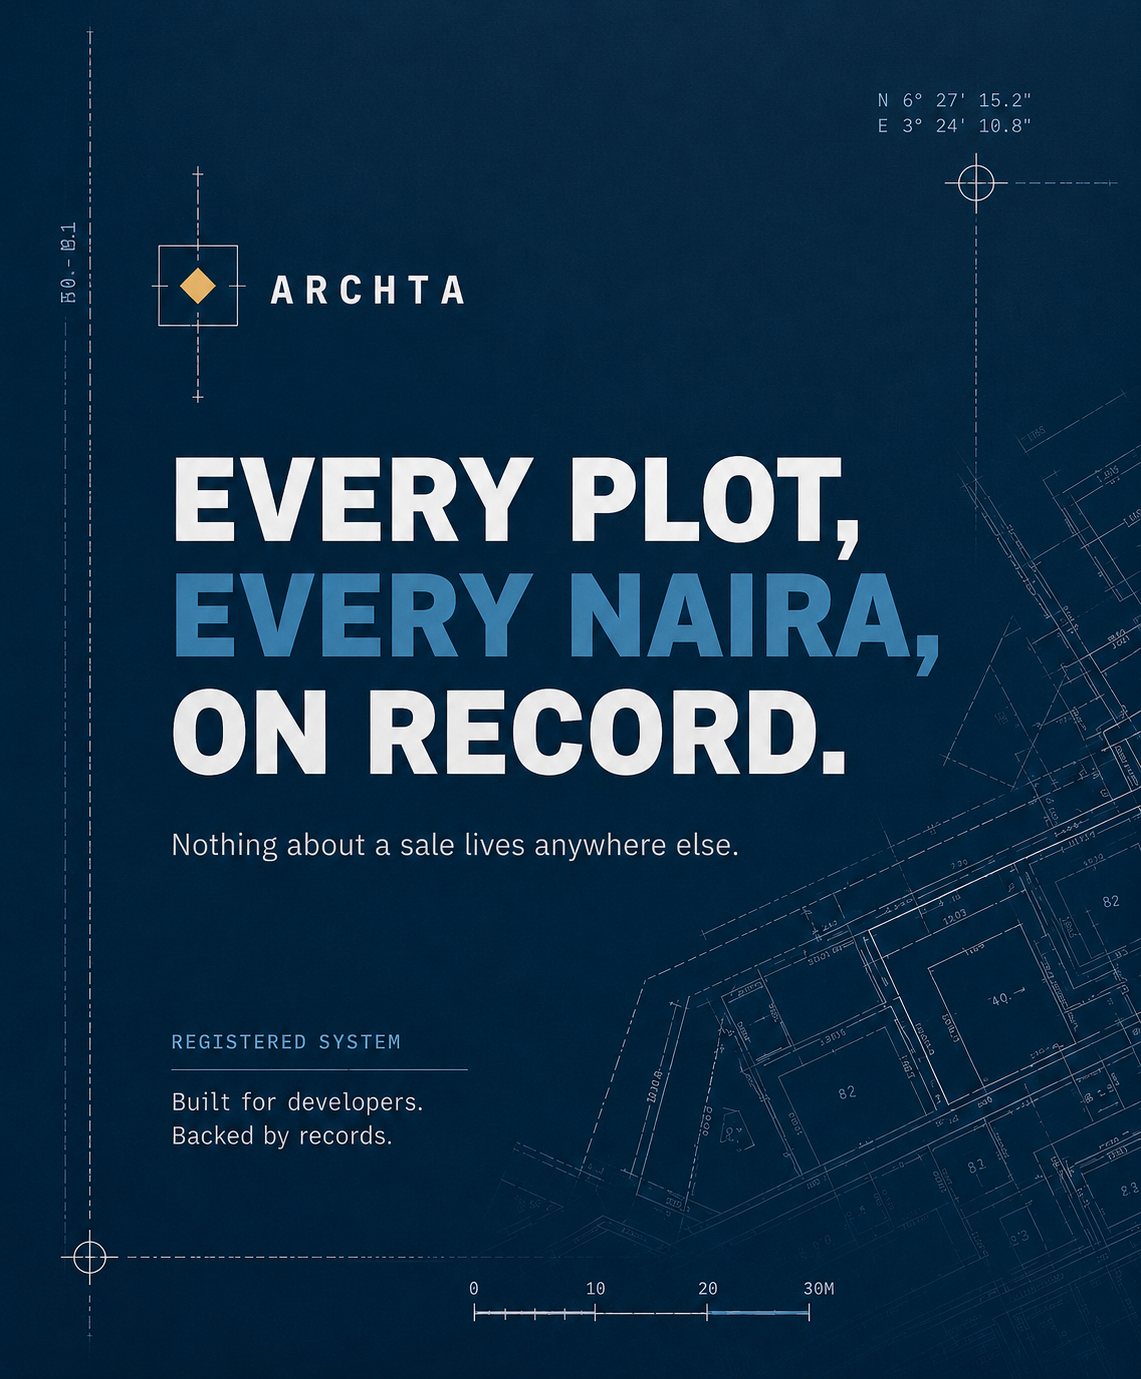
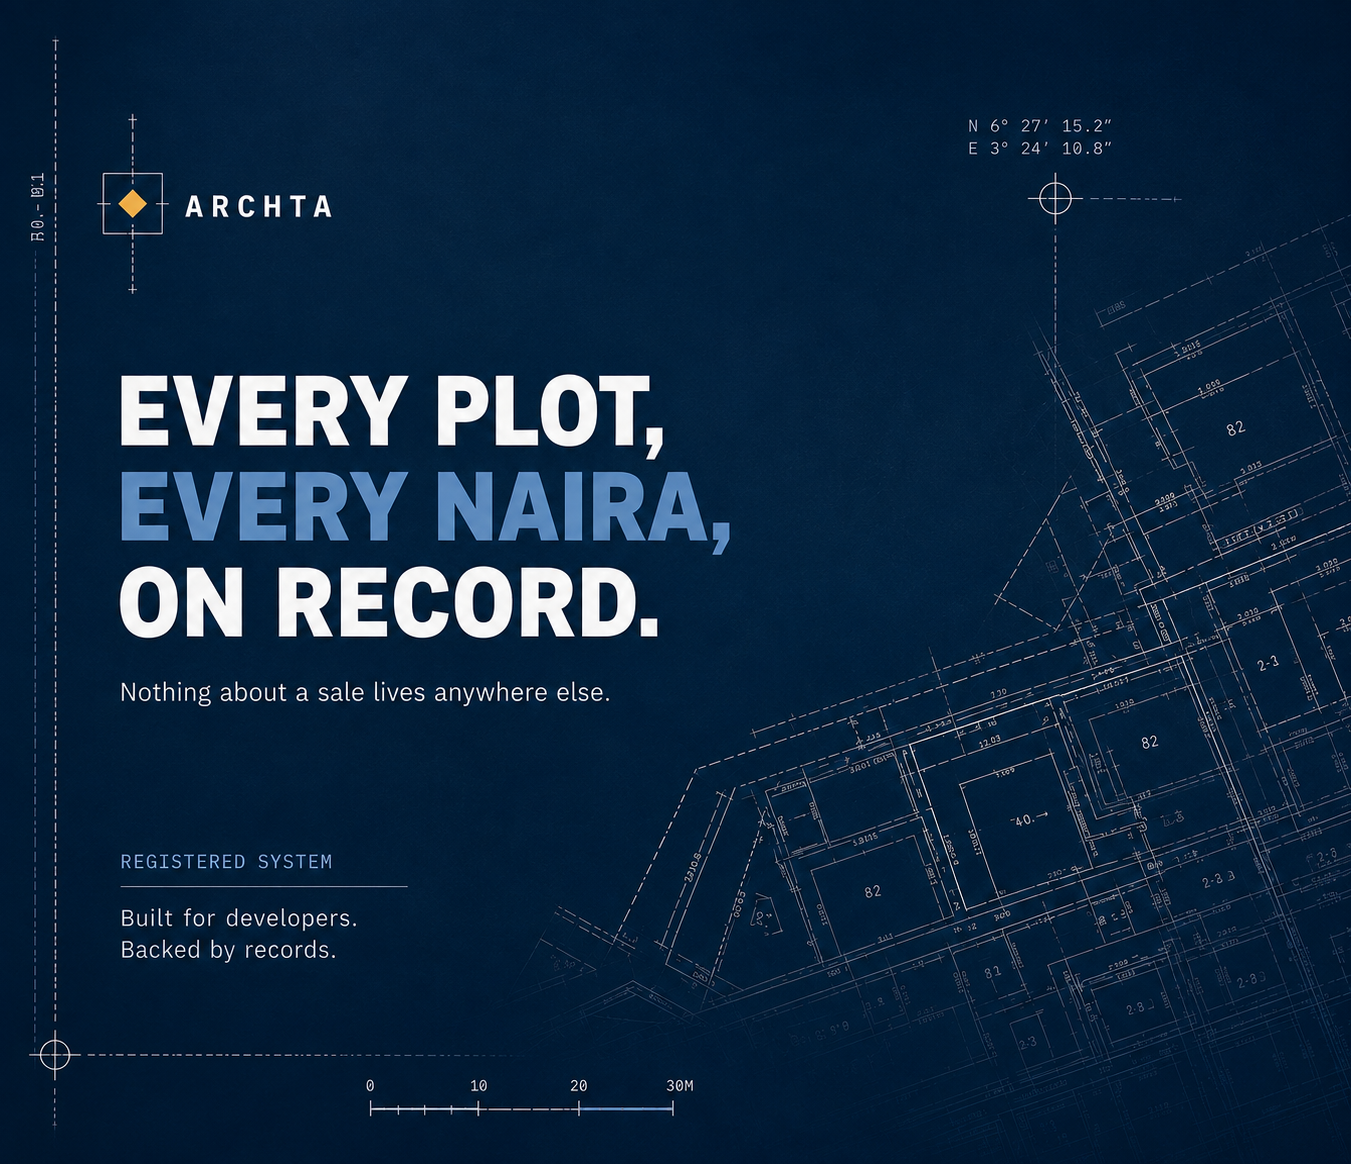
rawe

diff --git a/realestate.css b/realestate.css
@@ -222,21 +222,20 @@ button { cursor: pointer; background: none; border: none; padding: 0; }
    pixels — so the panel is now just that one image, full-bleed. Nothing
    here is recreated in CSS or SVG.
 
-   background-size:contain, not cover: sup.png is 1141x1379 (0.83:1,
-   noticeably taller/narrower than the panel, which runs close to 1:1 at
-   most desktop widths — .gate gives this section 1.15 of 2fr, and with
-   height pinned to the full viewport that ratio is roughly (0.575 *
-   window width) : window height, ~0.92:1 at 16:10 and ~1.02:1 at 16:9).
-   cover would scale up until the image's width fills the panel and crop
-   the overflow off the top and bottom — exactly the "logo/scale-bar cut
-   off" failure the very first version of this panel had, just via the
-   raster image instead of a mis-set preserveAspectRatio. contain guarantees
-   the whole composition is always on screen; var(--sidebar-bg) shows
-   through the top/bottom letterbox strips contain leaves at 16:9 widths
-   (close enough to the image's own navy not to read as a seam) and behind
-   the image entirely if it fails to load. */
+   background-size:cover: sup.png was re-exported at 1351x1164 (~1.16:1)
+   specifically to match this panel's own on-screen ratio — .gate gives
+   this section 1.15 of 2fr, and with height pinned to the full viewport
+   that ratio is roughly (0.575 * window width) : window height, which
+   runs ~0.92:1 at 16:10 down to ~1.15-1.2:1 on a shorter/wider window.
+   The original 1141x1379 (0.83:1, portrait) was badly mismatched against
+   that — cover cropped the top and bottom (the "logo/scale-bar cut off"
+   failure the very first hand-built version of this panel also had),
+   contain left visible letterbox bars on the sides instead. The
+   re-exported ratio sits close enough to the panel's real range that
+   cover now fills edge-to-edge with only a sliver of crop at the extremes.
+   var(--sidebar-bg) shows behind the image if it fails to load. */
 .gate-brand {
-  background: var(--sidebar-bg) url('./sup.png') center / contain no-repeat;
+  background: var(--sidebar-bg) url('./sup.png') center / cover no-repeat;
 }
 
 /* Three statements about behaviour, replacing what used to be three numbers
